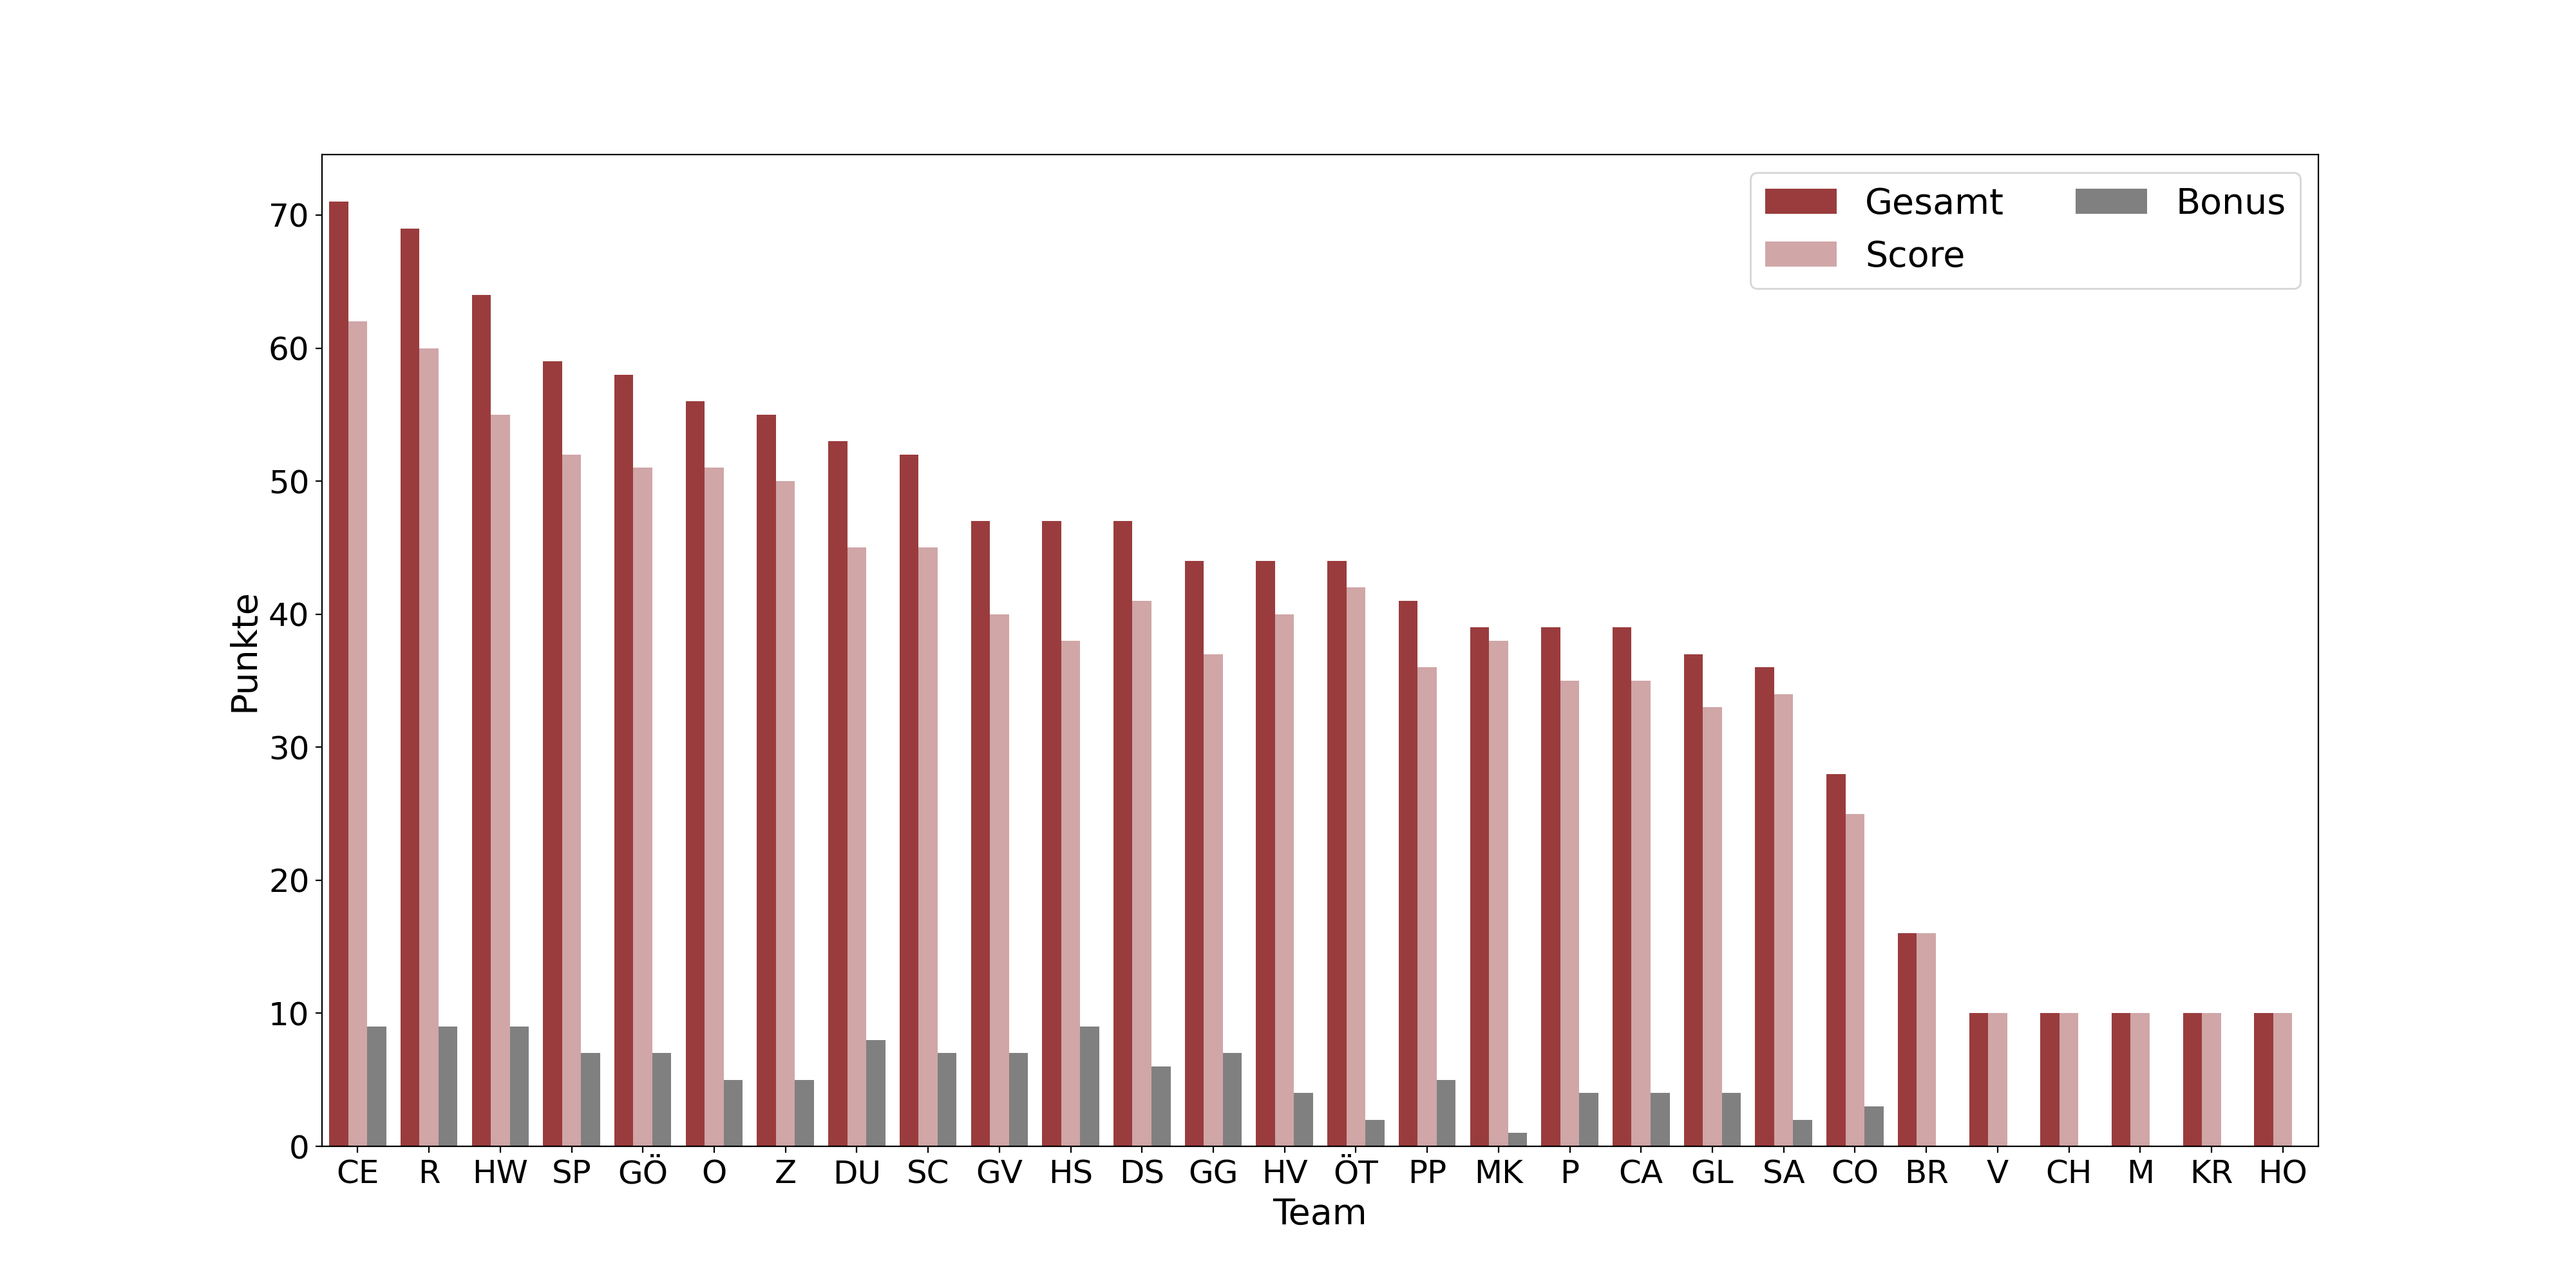
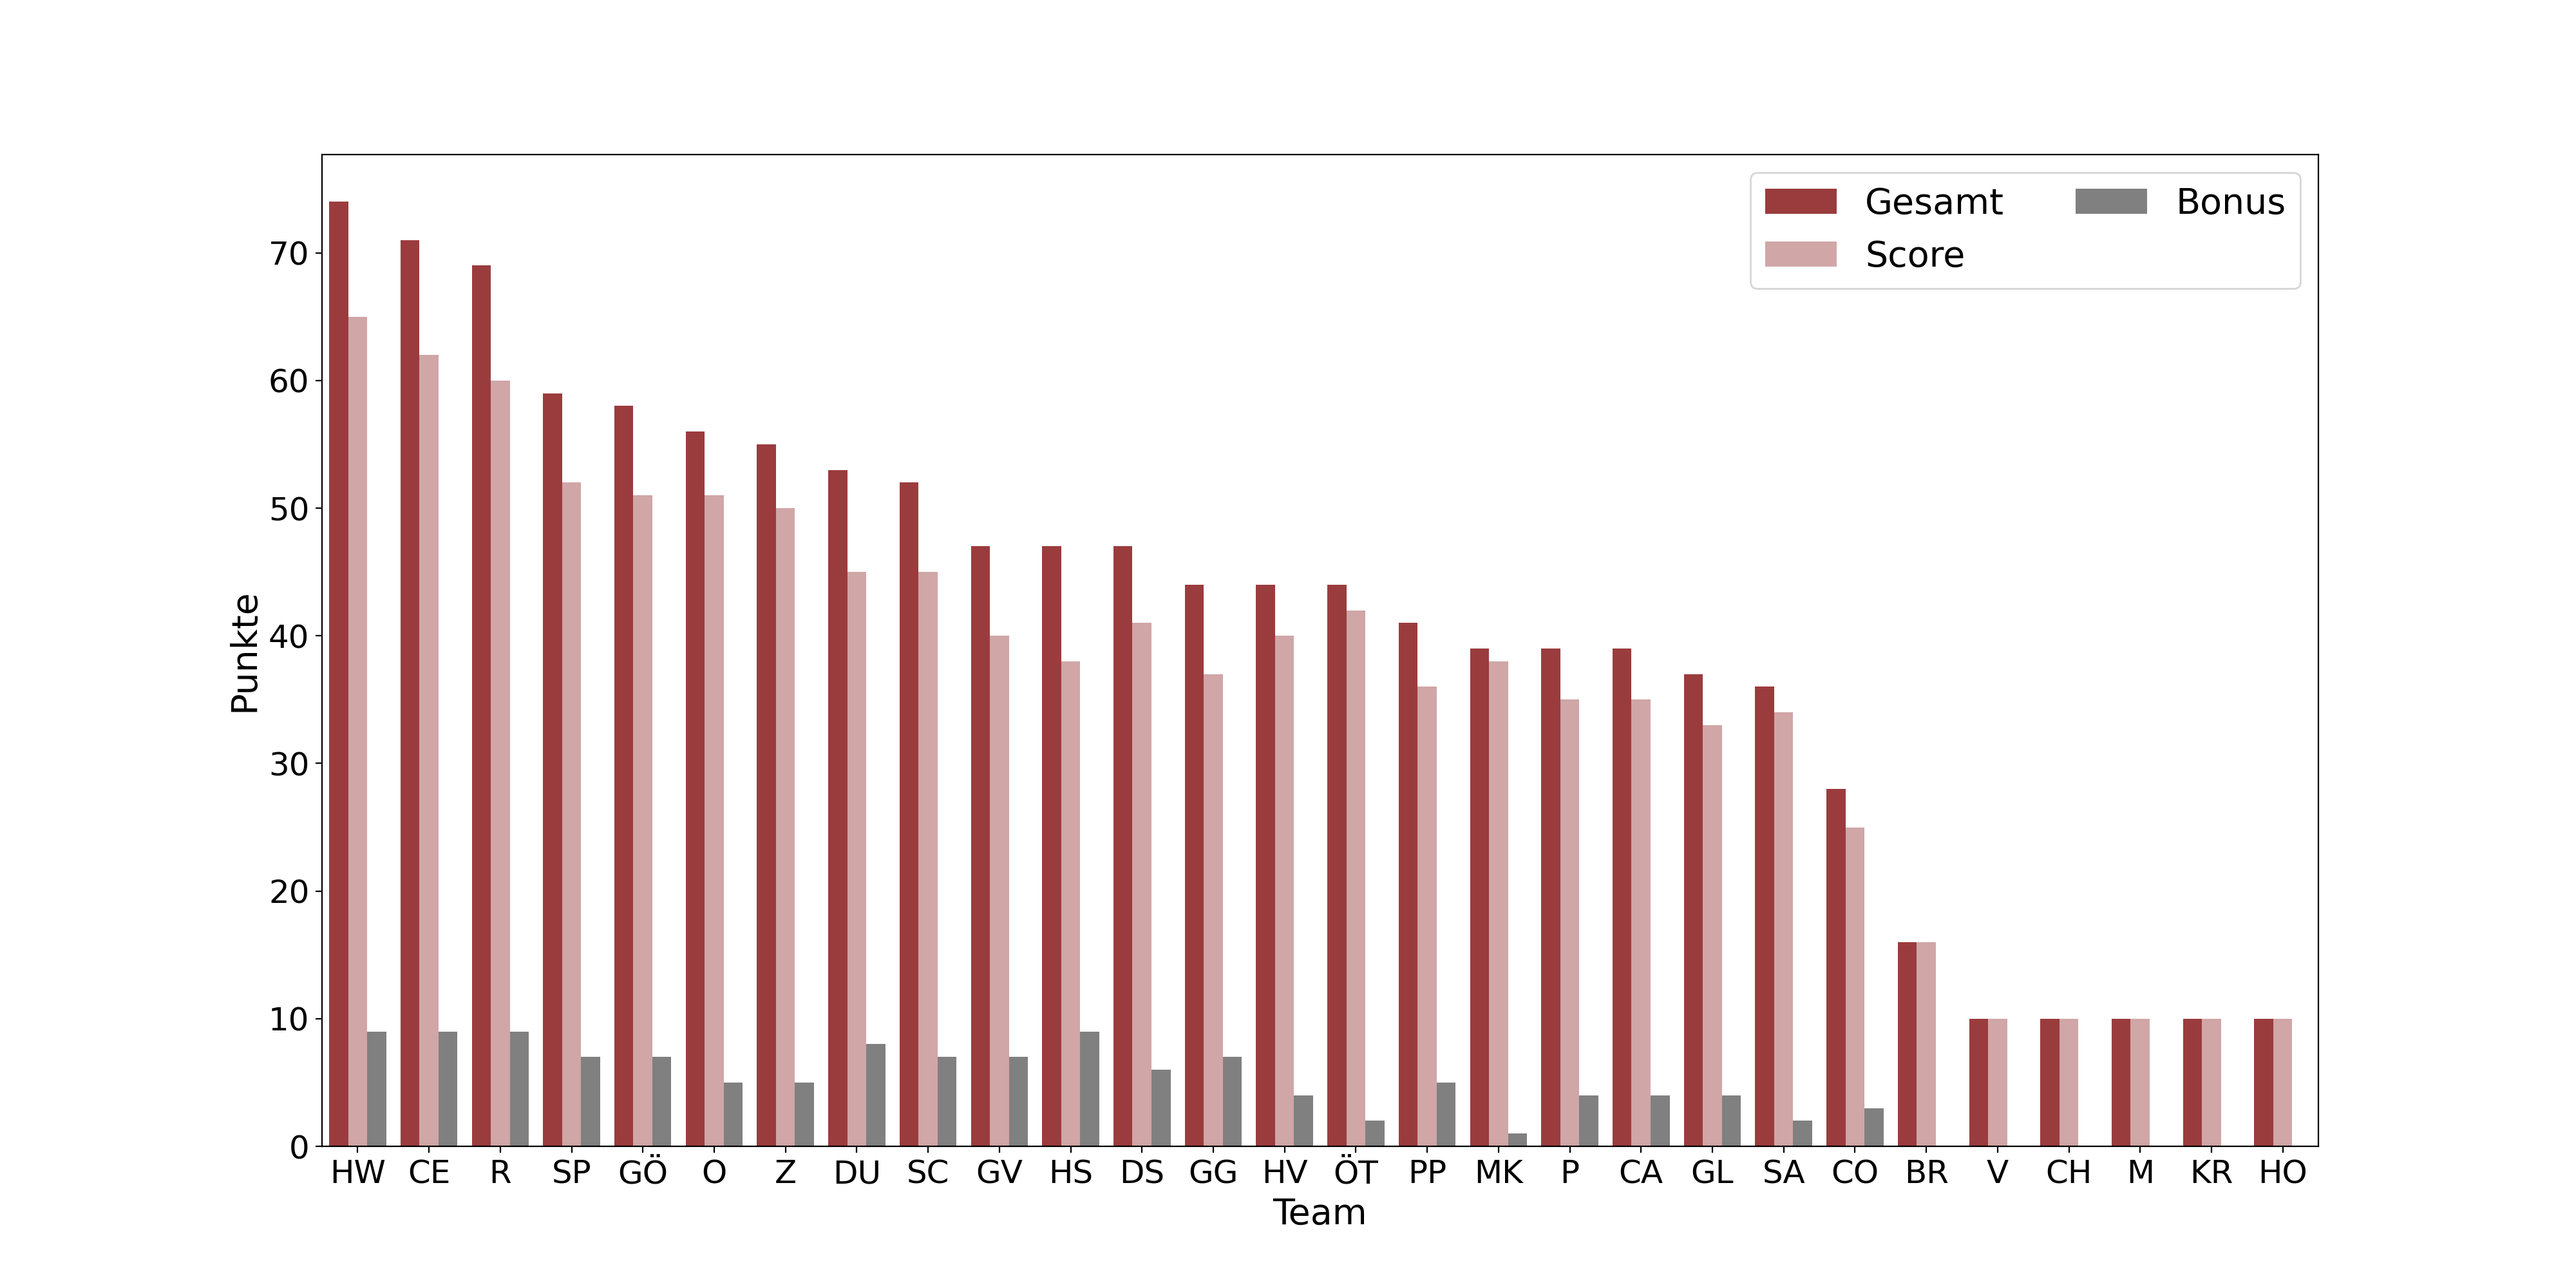
update

diff --git a/css/style_teams.css b/css/style_teams.css
@@ -334,7 +334,7 @@
             background-color: #ffafcc
         }
         .R {
-            order: 1
+            order: 2
         }
         .R .team__all-points::after{
             content: "69"
@@ -376,7 +376,7 @@
             background-color: #ff928b
         }
         .CE {
-            order: 0
+            order: 1
         }
         .CE .team__all-points::after{
             content: "71"
@@ -404,10 +404,10 @@
 
         
         .HW .team__score::after {
-            content: "55/120"
+            content: "65/120"
         }
         .HW .team__stations::after {
-            content: "7/12"
+            content: "8/12"
         }
         .HW .team__bonus::after {
             content: "9/36"
@@ -416,10 +416,10 @@
             background-color: #758184
         }
         .HW {
-            order: 2
+            order: 0
         }
         .HW .team__all-points::after{
-            content: "64"
+            content: "74"
         }
 
 
